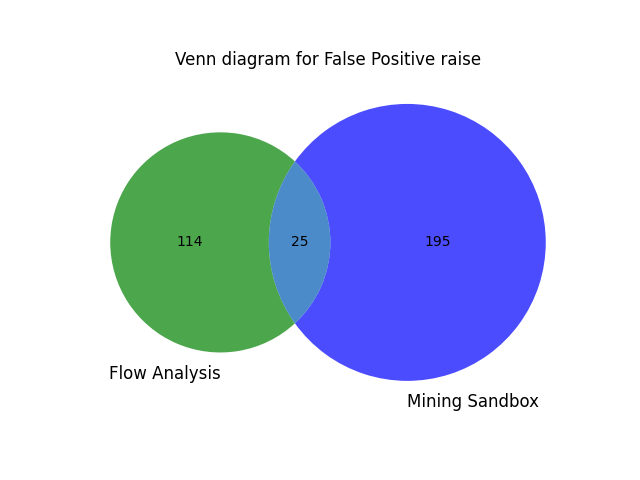
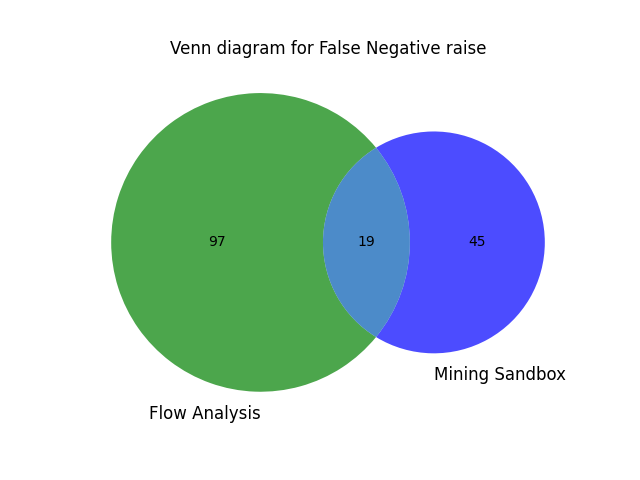
update at Section 4 - 5 - 6

diff --git a/Paper-Network-Flows/results.tex b/Paper-Network-Flows/results.tex
@@ -1,60 +1,43 @@
 \section{Results}\label{sec:results}
 
-This section presents the results of our research. In Section~\ref{sec:ml}, we compare the
-performance of machine learning algorithms in classifying the apps in the \cds dataset
-as either malware or non-malware, using network flows collected during the execution of the apps
-in conjunction with calls to sensitive APIs. Recall that previous research employed the \emph{vanilla}
-\mas, which relied solely on calls to sensitive APIs for app classification. Our previous
-research showed that the performance of the vanilla \mas is compromised when consider
-the \cds, in particular due to samples from specific malware families {\color{red}(such as ABC)~\cite{}}.
-In Section~\ref{sec:new-mas-approach}, we present the gains in classification performance of our extended \mas,
-which combines the analysis of sensitive API calls with our designed network flow ML-based classification method.
-Finally, in Section~\ref{sec:family-assessment}, we present assessments of our extended
-version of the \mas that focus on the malware families responsible for the poor performance of
-the vanilla \mas on the \cds.
-
-\subsection{Comparison of Machine Learning Algorithms}\label{sec:ml}
+This section presents the results of our research. In Section~\ref{sec:ml}, we compare the performance of various machine learning (ML) algorithms in classifying apps from the \fds dataset as either malware or non-malware using our framework, \droidxpflow. In Section~\ref{sec:family-assessment}, we evaluate the performance of our approach, focusing on malware families and assessing the accuracy of detecting each of them. Finally, in Section~\ref{sec:new-mas-approach}, we provide an overview of the results obtained with our approach and compare them to existing state-of-the-art method.
 
 
-As discussed {\color{red}in Section~\ref{}}, we extended the \mas to collect network
-flow information from the apps during their execution via DroidBot campaigns.
-We then replicated our previous experiments using this extended version of the \mas
-that incorporates network flow data collection. Finally, we conducted an experiment to
-compare the performance of machine learning algorithms leveraging this network flow data
-for malware classification. This step of our research considers the following standard ML algorithms:
+
+\subsection{Comparison of ML Algorithms}\label{sec:ml}
+
+As discussed in Section~\ref{sec:dataset}, we developed a framework (\droidxpflow), extending DroidXP benchmark to collect network flow information from apps during their execution via DroidBot campaigns. We then conducted our experiment using \droidxpflow, which incorporates network flow data analysis and ML algorithms.
+
+As a first step, we conducted an experiment to compare the performance of various ML algorithms using our \fds dataset for malware classification. This stage of our research considered the following standard ML algorithms:
 
 \begin{itemize}
- \item Logistic Regression 
+ \item Logistic Regression (LR)
  \item Linear Discriminant Analysis (LDA)
  \item Quadratic Discriminant Analysis (QDA)
- \item Random Forest
+ \item Random Forest (RF)
 \end{itemize}
 
-We also explored the Energy-Based Flow Classifier (EFC), which has been used for
-intrusion and botnet detection using network flows~\cite{DBLP:journals/tnsm/PontesSGBM21}.
-Our experiments were conducted using the \cds, with 70\% of the samples (2853 samples) allocated for training
-and 30\% (1213 samples) for testing. To maximize the performance of these machine learning algorithms,
-we employed multiple parameters and cross-validation. In the end, the Random Forest algorithm outperformed the others,
-when considering standard metrics (recall, precision, \fone, and Area Under the Curve (AUC)).
-Table~\ref{tab:ml-metrics} presents the results. Based on this result,
-we explored the research questions using the outputs of the Random Forest
-classification.
+We also explored the Energy-Based Flow Classifier (EFC), which has been used for intrusion and botnet detection using network flows~\cite{DBLP:journals/tnsm/PontesSGBM21}. For our experiments with \fds, $70\%$ of the samples ($2,847$) were allocated for training, and $30\%$ ($1,220$ samples) for testing. To maximize the performance of each ML algorithm, we explored multiple parameter configurations, using cross-validation, to making efficient use of the available features for each ML algorithm.
+
+Ultimately, the RF algorithm outperformed the others when evaluated with standard metrics (recall, precision, F1-score, and Area Under the Curve (AUC)). Table~\ref{tab:ml-metrics} presents the results. Thus, based on these findings, we answer the research questions using the outputs of the RF algorithm classification.
+
+
 
 \begin{table}[htb]
-    \caption{Accuracy of the ML algorithms to classify the app as malware or non-malware using network flow data from the \cds.}
+    \caption{Accuracy of the ML algorithms to classify the app as malware or non-malware using network flow data from the \fds.}
   \begin{tabular}{lcccc} \toprule
     Algorithm & Precision & Recall & \fone & AUC \\ \midrule 
-    Logistic Regression  & 0.67 & 0.67 & 0.66 & 0.62 \\
-    LDA & 0.66 & 0.75 & 0.70 & 0.70 \\
-    QDA & 0.63 & 0.68 & 0.65 & 0.68 \\
-    EFC & 0.68 & 0.74 & 0.71 & 0.72 \\
-    Random Forest & 0.84 & 0.81 & 0.82 & 0.92 \\ \bottomrule    
+    LR  & 0.74 & 0.98 & 0.84 & 0.74 \\
+    LDA & 0.74 & 0.97 & 0.84 & 0.84 \\
+    QDA & 0.72 & 0.66 & 0.69 & 0.76 \\
+    EFC & 0.75 & 0.97 & 0.85 & 0.66 \\
+    RF & 0.87 & 0.90 & 0.89 & 0.94 \\ \bottomrule    
   \end{tabular}
   \label{tab:ml-metrics}
 \end{table}
 
 \begin{finding}
-  The Random Forest algorithm outperforms the others popular classification algorithms, achieving higher values across the metrics explored (recall, precision, \fone, and Area Under the Curve).
+  The RF algorithm outperforms the others popular classification algorithms, achieving higher values across the metrics explored (recall, precision, \fone, and Area Under the Curve).
 \end{finding}
 
 
@@ -64,54 +47,116 @@ classification.
 %   \caption{The comparison of machine learning algorithms}\label{fig:metrics}
 % \end{figure*}
 
+\subsection{Detection Performance based on Malware Family}\label{sec:family-assessment}
 
-\subsection{Overall Performance and Ablation Study}\label{sec:new-mas-approach}
+In this section, we present the performance of our experiment based on malware family. Since the number of samples in each family varies, the overall detection rate is more influenced by families with larger sample sizes. However, our results become inconsistent if we use the same number of samples for each family. To resolve this issue, we present the results based on the actual number of samples from the $20$ most representative families, which account for $90.9\%$ of all malware samples tested and whose families could be labeled by \vt.
 
-Our extended version of the \mas, which complements the \mas with an ML-based network flow classification of Android apps, classified $3,046$ repackaged versions of apps as malware, from wich 334 are false negatives. It also miss classfied 183 apps as non-malware (false negatives). Table~\ref{} presents the confusion matrix.
-
-\begin{tabular}{l|l|c|c|c}
-\multicolumn{2}{c}{}&\multicolumn{2}{c}{Prediction}&\\
-\cline{3-4}
-\multicolumn{2}{c|}{}&Positive&Negative&\multicolumn{1}{c}{Total}\\
-\cline{2-4}
-\multirow{2}{*}{Actual Values}& Positive & $a$ & $b$ & $a+b$\\
-\cline{2-4}
-& Negative & $c$ & $d$ & $c+d$\\
-\cline{2-4}
-\multicolumn{1}{c}{} & \multicolumn{1}{c}{Total} & \multicolumn{1}{c}{$a+c$} & \multicolumn{    1}{c}{$b+d$} & \multicolumn{1}{c}{$N$}\\
-\end{tabular}
-
-and significantly decreased the number of (FN) from $1,720$ to $183$. However, this execution increased the number of (FP) from $220$ to $334$. The combination of both techniques proved to be more effective than the vanilla \mas. In summary, the results reveal that the combination of both techniques achieves an accuracy rate of $91$\% (third row of Table~\ref{tab:accuracy}).
-
-To understand the benefits of each method, we further analyze the contribution of them for the accuracy. We report the raise of True Positive (TP) and False Positive (FP) for each technique in Figure~\ref{fig:venn}. The figure reveal that different approaches present different contribution to the final detection result.
-
-\begin{finding}
-When combining both techniques, we improve the overall accuracy (\fone) of \mas at malware detection, from $0.54$ to $0.91$ at \cds.
-\end{finding}
+We also explored the detection rate of recent malware samples. Although their families are unknown, we demonstrated that it is possible to classify them as suspicious apps using our framework (Section~\ref{sec:unknowfamily}).
 
 
-{\bf \mas.} Considering the \cds (4,076 apps), the \fhc present
-a total of {$1,395$} repackaged apps flagged as malware ({$34.22$\%} of the total number of repackaged apps), for which the repackaged app version calls at least one additional sensitive API. They explore accuracy metrics (such as Precision, Recall, and F-measure ($F_1$)), taking advantage of \vt to label the \cds and building a ground truth. Table~\ref{tab:accuracy} summarize the result of their study (First row). The study indicate that the \mas achieves an accuracy of 0.54 when considering the \cds. Nonetheless, the \mas fails to correctly classify $1,720$ assets as malware on the \cds (FN column, first row of Table~\ref{tab:accuracy}), and wrongly labeled the repackaged version of $220$ apps as malware (FP column). Therefore, the study reveals a {\bf lower performance} related to the accuracy of the approach, indicating that when considering the \cds, the accuracy of the \mas using DroidBot as test generate tool is just over $50$\%.
+\subsubsection{Detection rate of 20 most representative malware families}\label{sec:familyDetection}
 
-{\bf Flow Analysis.} Surprisingly, also considering the \cds (\apps pairs), we explored Flow Analysis with machine learning algorithm (Random Forest). As described in Section~\ref{sec:learning}, we trained $70$\% of the samples and tested on $30$\% of samples different from the trained ones. Our \cds cover \apps pair with $2,969$ original apps and $2,918$ malicious apps, totaling $5,887$ balanced samples. Accordingly, we trained our model on $4,120$ samples ($70$\% of $5,887$), and applied the trained model to $1,767$ samples ($30$\% of $5,887$). The Flow Analysis labeled a total of $690$ apps as malware, failed to correctly label $124$ assets as malware, and wrongly labeled the repackaged versions of $175$ samples (second row of Table~\ref{tab:accuracy}). Our Flow Analysis had a better performance, when compared to \mas, with an accuracy rate of $82$\%. From these results, we can conclude that Flow Analysis could be a complementary technique to \mas, improving the identification of malicious code in Android apps. In the next section, we present the results of combining both techniques for suspicious app detection.
 
-\begin{finding}
-The experimental results demonstrate that Network Flow analysis, combined with a machine learning algorithm, outperforms the \mas, with \fone of $0.82$. This proves to be an effective strategy to support the \mas for malware identification.
-\end{finding}
+Among the $20$ most representative families, the families with the highest earnings are \gps and \dwg. Among the $69$ samples evaluated from the \dwg family, \droidxpflow flagged $66$ apps ($95.65\%$) as malicious. Despite this, the \dwg family does not have as many representative samples as the \gps family, which accounts for $46.96\%$ of all samples tested in the \fds, with $372$ samples. Of these, \droidxpflow flagged $348$ samples ($93.55$\%) as malicious. Malware belonging to the \gps family automatically connects to networks, communicates with remote servers, downloads and installs other apps or adware without the user’s knowledge\cite{DBLP:journals/jnca/WangCYYPJ19}. Due to their high network interaction, they are more easily detected by our framework, demonstrating its effectiveness in detecting samples with malicious network behaviors.
+
+Additionally, it is worth noting that among the $20$ most representative families examined, our framework correctly identified all samples as malware in 12 families. This result demonstrates that our approach is effective for other malware families investigated as well. Table~\ref{tab:families_rate} shows the detection performance of our strategies for the $20$ most representative families. The table also classify samples from five malware categories: ad fraud, adware, spyware, trojans, and SMS malware. Most of the samples are from the adware and ad fraud categories, which aggressively display ads, generate fraudulent ad clicks, and track user behavior~\cite{DBLP:journals/spe/FallahB22}. The other categories are equally harmful and may cause financial losses through unauthorized messages (SMS malware), collect sensitive user data for malicious purposes (Spyware), or provide remote access and control over infected devices (Trojans).
+
 
 
 \begin{table*}[h]
-  \caption{Accuracy of both strategy on \cds.}
+  \caption{Detection Rate of the $20$ most representative Families from $30\%$ tested randomly selected from \fds.}
+\centering{
+  \begin{tabular}{llrrr} \hline
+    Category & Family & Samples & Detected  & \%  \\
+    \hline
+
+        Ad Fraud & gappusin & 372 & 348 & 93,55  \\
+        ~ & dowgin & 69 & 66 & 95,65  \\
+        ~ & kyvu & 4 & 4 & 100,00  \\
+        Adware & revmob & 67 & 62 & 92,54  \\
+        ~ & airpush & 44 & 42 & 95,45  \\
+        ~ & youmi & 28 & 28 & 100,00  \\
+        ~ & kuguo & 22 & 22 & 100,00  \\
+        ~ & leadbolt & 15 & 15 & 100,00  \\
+        ~ & adwo & 10 & 10 & 100,00  \\
+        ~ & apptrack & 10 & 10 & 100,00  \\
+        ~ & domob & 9 & 9 & 100,00  \\
+        ~ & appsgeyser & 6 & 5 & 83,33  \\
+        ~ & admogo & 6 & 5 & 83,33  \\
+        ~ & pircob & 5 & 5 & 100,00  \\
+        ~ & cimsci & 4 & 4 & 100,00  \\
+        
+        ~ & dnotua & 3 & 3 & 100,00  \\
+        Spyware & igexin & 7 & 7 & 100,00  \\
+        ~ & cnzz & 4 & 4 & 100,00  \\
+        Trojan & torjok & 8 & 7 & 87,50  \\
+        SMSmalware & smsreg & 29 & 27 & 93,10  \\
+
+   
+    \hline
+  \end{tabular}
+  }
+  \label{tab:families_rate}
+\end{table*}
+
+
+\begin{finding}
+
+Our approach proved to be efficient at malware families with high network interaction, like demonstrated at samples from \gps family, the most representative family in \fds. This demonstrates the potential of this solution in detecting samples with malicious network behaviors.
+
+\end{finding}
+
+
+\subsubsection{Detection rate of unknown malware family}\label{sec:unknowfamily}
+
+According to \vt, among the samples from our \fds, at least two security engines identified $80$ samples as malware, but they were unable to specify their families. Since new malware emerges daily, accurately classifying recent malicious apps into their respective families is both challenging and time-consuming~\cite{DBLP:journals/compsec/WangTW21,DBLP:journals/compsec/ContiKP22}, suggesting that these are recent malware.
+
+Although the specific families were unknown at the time of this research, our framework flagged $39$ samples ($48.75\%$) as malicious. Based on these results, we conclude that \droidxpflow can classify recent apps as malware based solely on their malicious network activity.
+
+\begin{finding}
+
+Even for recently malicious apps without family classification, our approach can flag them as malware based solely on their suspicious network activities.
+
+\end{finding}
+
+
+
+\subsection{Flow Analysis approach x Mining Android Sandbox (MAS) approach}\label{sec:new-mas-approach}
+
+
+In this section, we compare the performance of \droidxpflow and \mas classifier, presented in the previous chapter of this thesis. The comparison is performed based on standard metrics (recall, precision, F1-score). To provide a baseline comparison, we present the results of the \mas using the same $30\%$ of samples ($1,220$) from the \fds dataset tested in section~\ref{sec:ml}.
+
+Our results demonstrate that the vanilla \mas for malware classification has lower performance (\fone) compared to the \droidxpflow framework. In summary, the results reveal that the \mas achieves an \fone of $59\%$, while the \droidxpflow achieves an overall accuracy of $89\%$.
+
+To understand the strengths and weaknesses of each method, we further analyzed their contributions to the \fds dataset. We report the increase in True Positives (TP) and False Positives (FP) for each technique in Figure~\ref{fig:venn}. The figure shows that different approaches contribute differently to the final detection results. More details are provided in the following subsection.
+
+
+\subsubsection{\mas result} 
+
+Considering $30\%$ of the \fds (1,220 apps), the \mas flagged a total of $460$ repackaged apps as malware ($37.7\%$ of the total number of repackaged apps investigated), where the repackaged app version calls at least one additional sensitive API. We explored accuracy metrics (such as Precision, Recall, and F-measure (F1)), taking advantage of \vt to label the \fds and build a ground truth. Table~\ref{tab:accuracy} summarizes the results of the study (first row).
+
+The results indicate that the \mas achieves an accuracy of $0.59$ when considering the $1,220$ apps explored. Nonetheless, the \mas fails to correctly classify $488$ assets as malware (FN column, first row of Table~\ref{tab:accuracy}) and wrongly labels the repackaged version of $64$ apps as malware (FP column). Therefore, the study reveals a lower performance in terms of accuracy, indicating that when considering $30\%$ of the \fds, the accuracy of the \mas using DroidBot as the test generation tool is nearly $60\%$.
+
+
+\subsubsection{Flow Analysis result} 
+
+Surprisingly, considering the same samples ($1,220$ apps), we explored our framework. The \droidxpflow labeled a total of $903$ apps as malware but failed to correctly label $86$ assets as malware. However, it wrongly labeled the repackaged versions of $116$ samples as malware (second row of Table~\ref{tab:accuracy}). Our \droidxpflow framework showed better performance compared to the \mas, with an accuracy rate of $89\%$. Based on these results, we can conclude that \droidxpflow outperforms the \mas, proving to be an effective strategy for malware classification. In the next section, we present the strengths and weaknesses of each proposal.
+
+
+\begin{finding}
+The experimental results demonstrate that \droidxpflow framework, outperforms the \mas, with \fone of $0.89$. This proves that the approach is an effective strategy for malware identification.
+\end{finding}
+
+
+\begin{table*}
+  \caption{Accuracy of both strategy on \fds (1220 samples).}
 \centering{
   \begin{tabular}{lrrrrrr} \hline
-    Dataset & TP   & FP  & FN  & Precision & Recall & $F_1$ \\
+    Approach & TP   & FP  & FN  & Precision & Recall & $F_1$ \\
     \hline
+    \mas   & 396  & 64 & 488 & 0.86       & 0.45   & 0.59  \\
+    Flow Analysis with ML support (RF)    & 787   & 116   & 86   & 0.87      & 0.90   & 0.89  \\
     
-    %\mas + Traces  & \sds (102)   & 67   & 18  & 2   & 0.78      & 0.97   & 0.87  \\
-    \fhc : \mas (4,076 pairs)    & 1,175  & 220 & 1,720 & 0.84       & 0.40   & 0.54  \\
-    Flow Analysis (1767 samples)~\footnote{Using Random Forest as ML algorithm}    & 690   & 175   & 124   & 0.79      & 0.84   & 0.82  \\
-    %\mas + Traces  & \cds (1203)   & 214  & 326 & 245 & 0.39      & 0.46   & 0.42  \\ 
-    \mas and Flow Analysis (4,076 pairs)    & 2,712   & 334   & 183   & 0.89      & 0.93   & 0.91  \\
     \hline
   \end{tabular}
   }
@@ -119,68 +164,35 @@ The experimental results demonstrate that Network Flow analysis, combined with a
 \end{table*}
 
 
-\subsection{Combining both Strategy}\label{sec:strategy}
+\subsection{Weakness and Strength of \net and \mas}\label{sec:strategy}
 
-Finally, to confirm our hypothesis from Section~\ref{sec:comparison}, we investigated the benefits of combining both approaches (\mas and Flow Analysis). The combined execution of both techniques correctly classified $2,712$ repackaged apps as malware (TP) and significantly decreased the number of (FN) from $1,720$ to $183$. However, this execution increased the number of (FP) from $220$ to $334$. The combination of both techniques proved to be more effective than the vanilla \mas. In summary, the results reveal that the combination of both techniques achieves an accuracy rate of $91$\% (third row of Table~\ref{tab:accuracy}).
+To understand the benefits of each method, we further analyze the contribution of both methods in detecting malicious samples. We report the increase in True Positives (TP), False Positives (FP), and False Negatives (FN) for each technique in Figure~\ref{fig:venn}. The figure reveals that different approaches contribute differently to the final detection result.
 
-To understand the benefits of each method, we further analyze the contribution of them for the accuracy. We report the raise of True Positive (TP) and False Positive (FP) for each technique in Figure~\ref{fig:venn}. The figure reveal that different approaches present different contribution to the final detection result.
+In the first Venn diagram of Figure~\ref{fig:venn}, we present the increase in True Positives (TP) for our samples. As we can see, $432$ samples were classified solely by \droidxpflow, most of them from the \gps family ($292$ samples). Both approaches detected $358$ samples, most of them from \gps, \fm{airpush}, and \dwg. The \mas correctly detected $30$ samples on its own, most of them without family classification ($14$ samples).
 
-\begin{finding}
-When combining both techniques, we improve the overall accuracy (\fone) of \mas at malware detection, from $0.54$ to $0.91$ at \cds.
-\end{finding}
+The second Venn diagram presents the increase in False Positives (FP). The diagram shows that the \mas has a lower increase in FP compared to \droidxpflow, which can explain its precision in Table~\ref{tab:accuracy}. \droidxpflow has almost twice as many samples with FP as the \mas. For $97$ benign samples, the approach mistakenly classified a normal network flow as malicious. However, its precision remains high due to the increase in True Positives (TP).
+
+Finally, in the last Venn diagram, we can see the samples that both approaches failed to classify as malicious. The diagram shows that the \mas has a high increase in False Negatives (FN) ($432$ samples), most of them from the \gps family ($292$ samples), which are more easily detected by our framework due to their malicious network behaviors, as presented in Section~\ref{sec:familyDetection}. Among the 56 samples that were not detected by either approach, most of them ($28$) do not have a family classification. According to \vt, among the 60 antivirus engines available, at most 4 are capable of detecting them, characterizing these samples as complex and difficult to classify as malware.
+
 
 \begin{figure}[t!]
   \centering
   \begin{tabular}{@{}c@{}}
-    \includegraphics[width=0.54\textwidth]{image/vennTP.png} \\[\abovecaptionskip]
+    \includegraphics[width=0.5\textwidth]{image/vennTP.png} \\[\abovecaptionskip]
     \small (a) True Positive raise
   \end{tabular}
 
   \begin{tabular}{@{}c@{}}
-    \includegraphics[width=0.54\textwidth]{image/vennFP.png} \\[\abovecaptionskip]
+    \includegraphics[width=0.5\textwidth]{image/vennFP.png} \\[\abovecaptionskip]
     \small (b) False Positive raise
+  \end{tabular}
+   \begin{tabular}{@{}c@{}}
+    \includegraphics[width=0.5\textwidth]{image/vennFN.png} \\[\abovecaptionskip]
+    \small (c) False Negative raise
   \end{tabular}
 
   \caption{Contribution to the final detection result}\label{fig:venn}
 \end{figure}
 
 
-\subsection{Detection Performance based on Malware Family}\label{sec:family}
 
-In this section, we present the performance of our experiment based on each malware family. Since the number of samples in one family differs from the number in another, the overall detection rate is influenced more by the families with larger sample sizes. However, our results become inconsistent if we use the same number of samples for each family. To resolve the paradox, we present the results of the actual number of samples from the $10$ most representative families, which account for $87.83\%$ of all samples (Section~\ref{sec:familyDetection}). We also explored the detection rate of suspected recent malware samples. Although their families are unknown, we demonstrated that it is possible to improve the detection rate of suspicious apps by combining both strategies (Section~\ref{sec:unknowfamily}).
-
-
-\subsubsection{Detection rate of 10 most representative malware families}\label{sec:familyDetection}
-
-Among the $10$ most representative families, combining both strategies, the families with the highest earnings are \tjk and \gps. Regarding \tjk family malware, among the 34 samples evaluated, the \fhc flagged only 2 apps ($5.88$\%) as malicious. However, when combined with Flow Analysis, both approaches correctly labeled $32$ assets ($94.11$\%) as malicious, marking an $88.23$\% increase. Despite this, the \tjk family does not have as many representative samples as the \gps family, which accounts for $32.80$\% of all samples in the \cds, with $1,337$ samples. Among them, the \mas flagged $334$ samples ($12.93$\%) as malicious, while the combination of them indicated that $1,275$ ($95.36$\%) had suspicious activity, representing an $82.42$\% increase. Malware belonging to the \gps family automatically connects to networks, communicates with remote servers, and downloads and installs other apps or adware without the user’s knowledge\cite{DBLP:journals/jnca/WangCYYPJ19}. Due to their high network interaction, they are more easily detected by \net, proving it to be more efficient in detecting samples with malicious network behaviors.
-
-Still, we should also note that $2$ families can correctly identified all samples as malware just with the \mas, \fm{airpush} and \fm{leadbolt}, with $120$ and $43$ samples respectively. At this case, the \net do not contribute to improving the ability to detect malicious activity, and just confirms the  maliciousness of the samples. The result reveals that the \mas remain effective for certain malware families. Figure~\ref{fig:bar} shows the detection performance of our strategies for the $10$ most representative families. In the figure, we can see that samples for the \gps family, had the the greatest benefit of the malware detection rate, with the support of flow analysis.
-
-
-
-\begin{figure*}[h]
-  \centering
-  
-    \includegraphics[width=\linewidth]{image/barGraph.png} \\[\abovecaptionskip]
-    
-  \caption{Detection Rate for Family}\label{fig:bar}
-\end{figure*}
-
-\begin{finding}
-
-The combination of the \mas with \net, improve the malware detection rate for the \gps family (from $12.93$\% to $95.36$\%), the most representative family in \cds. This demonstrates the potential of this solution in detecting samples with malicious network behaviors.
-
-\end{finding}
-
-
-\subsubsection{Detection rate of unknown malware family}\label{sec:unknowfamily}
-
-According to \vt, among the samples from our \cds, at least two \ses identified $253$ samples as malware. However, they were unable to specify their families. Since new malware emerges daily, accurately classifying recent malicious apps into their respective families is both challenging and time-consuming~\cite{DBLP:journals/compsec/WangTW21,DBLP:journals/compsec/ContiKP22}, which suggests that these are recent malware.
-
-Although the specific families are unknown, the \mas detected suspicious activity in $114$ samples ($45.05$\%) from this set. On the other hand, when focusing solely on the results from the \net, for these unknown malware families, $124$ samples ($49.01$\%) were flagged as malicious. When we combine both approaches, the total number of apps flagged for suspicious activity increases to $170$ ($67.19$\%). Based on these results, we conclude that \net can effectively support the \mas, even for recently identified malicious apps, without malware family classification at the time of this research.
-
-\begin{finding}
-
-Even for recently malicious apps with unknown malware families, \net can support the \mas to improve the detection rate of apps with suspicious activities.
-
-\end{finding}

diff --git a/Paper-Network-Flows/discussion.tex b/Paper-Network-Flows/discussion.tex
@@ -1,33 +1,34 @@
 \section{Discussion}\label{sec:discussion}
 
-The previous evaluation demonstrates the efficacy of \net in supporting the \mas for detecting malware through their network traffic. In this section, we address our research questions from Section~\ref{sec:Methodology}, present the implications of the results, and discuss certain limitations that cannot be ignored. These limitations also highlight areas for future research.
+The previous section demonstrated the efficacy of the \droidxpflow framework for detecting malware in network traffic. In this section, we address the research questions posed in Section~\ref{sec:Methodology}, presenting the implications of our results, and discussing certain limitations that cannot be ignored. These limitations also highlight areas for future research.
 
-\subsection{Answers to the Research Questions}\label{sec:questions}
+\subsection{Research Questions and Analysis}\label{sec:questions}
 
-The assessment of our method in the previous section allows us to answer the research questions proposed in the Methodology Section, as follows:
+The assessment of our method in the previous section allows us to answer the research questions proposed at Section~\ref{sec:Methodology}, as follows:\newline
+
+
 
 \begin{enumerate}
-    \item \textbf{Performance of the \mas with \net support (RQ1).} For this first question, our study indicates that the accuracy of the \mas improves when combined with machine learning technology by training on network traffic data. While in the \fhc, the \mas had lower precision and recall, resulting in an accuracy of $0.54$, when we combined it with \net, the accuracy significantly improved, reaching a \fone of $0.91$, compared to the $0.54$ reported in the \fhc.
+    \item \textbf{Accuracy Gain in Android Malware Classification Using Network Flow Data and ML (RQ1).} Our study indicates that the accuracy of \droidxpflow is competitive when compared to the state-of-the-art in malware classification. In our investigation, the framework achieved an \fone of $0.89$ when using the RF algorithm at ML model.
     
-    \item \textbf{Machine Learning Algorithms Analysis (RQ2).} Our experimental findings provide evidence that, among all the machine learning algorithms investigated in our work, the Random Forest algorithm outperforms the others, achieving higher values across the explored metrics for our dataset (\cds).
+    \item \textbf{Machine Learning Algorithms Analysis (RQ2).} Our experimental findings provide evidence that, among all the ML algorithms investigated, the Random Forest algorithm outperformed the other four algorithms tested. It achieved the highest performance according to the relevant metrics for our dataset (\fds).
     
-    \item \textbf{Malware Family Detection Accuracy (RQ3).} The results show that some families significantly benefit from the combination of both approaches. For example, the \tjk and \gps families show improvements in accuracy of $88.23\%$ and $84.42\%$, respectively. The main characteristics of these malware families include downloading adware without the user's knowledge, automatically connecting to and interacting with remote servers, and initiating paid services~\cite{DBLP:journals/jnca/WangCYYPJ19}. Therefore, the combination of both approaches achieves high accuracy, particularly for malware families that interact with networks frequently.
+    \item \textbf{Malware Family Detection Accuracy (RQ3).} The results show that certain malware families significantly benefit from the \droidxpflow framework. For example, samples from the \tjk and \gps families achieved correct classification rates above $93\%$. The main characteristics of these malware families include downloading adware without the user’s knowledge, automatically connecting to and interacting with remote servers, and initiating paid services~\cite{DBLP:journals/jnca/WangCYYPJ19}. Therefore, we can confirm that our framework achieves high accuracy, particularly for malware families that frequently engage in malicious network interactions.
 \end{enumerate}
 
 \subsection{Implications}\label{sec:implications}
 
-In this section, we highlight some implications based on the results presented in Section~\ref{sec:results}.
+In this section, we highlight some implications based on the results presented in Section~\ref{sec:results}.\newline
 
-Complementing the \fhc, our findings lead to improved accuracy in malware classification, indicating that \net can complement the \mas. Previous works~\cite{DBLP:conf/wcre/BaoLL18,DBLP:conf/iceccs/LeB0GL18,DBLP:journals/jss/CostaMMSSBNR22} incorrectly identified \mas as a solution with a reasonable \fone, based on results from a restricted dataset composed of fewer than 20 malware families. In contrast, the \fhc revealed negative results for the \mas when using a more representative dataset (\cds), which included a greater variety of malware families responsible for higher false negative rates. This, in turn, compromises the accuracy of the \mas.
+Previous studies~\cite{DBLP:conf/wcre/BaoLL18,DBLP:conf/iceccs/LeB0GL18,DBLP:journals/jss/CostaMMSSBNR22} incorrectly identified the \mas as a solution with a reasonable \fone, based on results from a limited dataset composed of fewer than 20 malware families. In contrast, our analysis revealed negative results for the \mas when using a more representative dataset (LargeDS), which included a greater variety of malware families. These families were responsible for higher false negative rates, ultimately compromising the accuracy of the \mas.
 
+Our work addresses this problem, presenting a approach base on network flow analysis with ML support. Our framework proved to be efficient in detect different malicious behaviors and reduce the number of false negatives. More importantly, the framework can identify more malware families that use polymorphism or obfuscation to evade detection~\cite{DBLP:conf/acsac/MoserKK07}, but exhibit high and suspicious interactions with the network. Malware from the \gps and \dwg families are examples of malicious apps that use these strategies.
 
-Our work addresses the problem identified by the \fhc, showing that by combining \mas with \net, we can detect different malicious behaviors and reduce the number of false negatives. More importantly, by combining both approaches, we can identify more malware families that use polymorphism or obfuscation to evade detection~\cite{DBLP:conf/acsac/MoserKK07}, but exhibit high and suspicious interactions with the network. Malware from the \gps and \tjk families are examples of malicious apps that use these techniques, yet their malicious behavior can be detected through \net.
-
-Still, our study also reveals that for some malware families, \net fails to detect their malicious behavior, while the \mas successfully identifies them as malware. This proves that \net is not a complete solution, and highlights the importance of combining both approaches. Among all families in the \cds 
- (116 families), 30 malware families have samples that \net do not flagged as malicious, but which were identify as malicious by the \mas. Examples include the \fm{Dowgin} family (11 samples out of 187) and the \fm{Revmob} family (10 samples out of 207), where only the \mas was able to identify them as malware. Also, \fhc show that \mas is able to correctly label as malware, $100\%$ of samples from \fm{Airpush} family. In this specific case, the \net just confirms the maliciousness of the samples. This demonstrates that the current state-of-the-art sandbox techniques remain effective for certain malware families.
+Still, our study also reveals that for some malware families, \droidxpflow fails to detect their malicious behavior, while the \mas successfully classified them as malware. This proves that \net is not a complete solution, and highlights the importance of combining both approaches. Among all families explored in $30\%$ of \fds 
+ (71 families), 11 families have samples that \droidxpflow do not flagged as malicious, however were classified as malicious by the \mas. Examples include the \fm{Dowgin} family (3 samples out of 69) and the \fm{Revmob} family (4 samples out of 67), where only the \mas was able to identify them as malware. Also, the previews chapter show that \mas is able to correctly label as malware, $100\%$ of samples from \fm{Airpush} family. In this specific case, \droidxpflow also classify as malware all samples and just confirms the maliciousness of them. This demonstrates that the current state-of-the-art Mining Sandbox techniques remain effective for certain malware families.
 
 \subsection{Limitations}\label{sec:limitations}
 
-The previous assessment of results, proved that \mas and \net, when complementing each other, is an effective approach for malware detection. However, the proposed method has some limitations that can not be ignored, and are mentioned below:\newline
-\textbf{Training set.} The \cds contains $2,895$ malware samples across $116$ families. When considering the number of apps available on official markets today, we realize that our sample is far from representative. Currently, there are millions of apps on Google Play~\cite{bankmycell}, with a significant number of malicious apps hidden among them. We believe that there are still malware families that cannot be detected by the \mas, even when combined with \net. To address this issue, we propose expanding the training set and testing additional detection models. The malware detection capability improves as the size of the training samples increases, enabling the solution to detect more types of malware. Finally, as in the \fhc, our work also focuses solely on Android repackaged malware, so we cannot generalize our findings to malware targeting other platforms.\newline
-\textbf{Malicious behaviors triggered.} As explained in Section~\ref{sec:mas}, during the execution phase of the \fhc, DroidXP restarts the explored apps to presumably activate the malicious behavior of the malware. However, we are uncertain whether all malicious activities were fully triggered without actual user inputs. Bao et al.~\cite{DBLP:conf/wcre/BaoLL18} provides evidence that DroidBot outperforms other test generation tools by uncovering a larger number of potential malicious behaviors. Nevertheless, we are unsure about its ability to accurately simulate user input, which would make the collected traffic resemble real-world scenarios. Furthermore, since we used a simulated environment, it is possible that some malware could detect this situation, and avoid triggering their malicious behaviors, thus affecting the network traffic collection process. In the future, we plan to explore more recent test generation tools that could cover a wider range of app behaviors. Additionally, we intend to incorporate real devices into the traffic collection process to better detect malware that can bypass environment emulators.
+The previous assessment of results, proved that \droidxpflow is an effective approach for malware detection, however it has some limitations that can not be ignored, and are mentioned below:\newline
+\textbf{Training set.} The \fds contains $2,886$ malware samples across $116$ families. When considering the number of apps available on official markets today, we realize that our sample is far from representative. Currently, there are millions of apps on Google Play~\cite{bankmycell}, with a significant number of malicious apps hidden among them. We believe that there are still malware families that cannot be detected by our framework. To address this issue, we propose expanding the training set and testing additional detection models. The malware detection capability improves as the size of the training samples increases, enabling the solution to detect more types of malware. Finally, our work also focuses solely on Android repackaged malware, so we cannot generalize our findings to malware targeting other platforms.\newline
+\textbf{Malicious behaviors triggered.} As explained in Section~\ref{sec:data}, during the execution phase of DroidXP it restarts the explored apps to presumably activate the malicious behavior of the malware. However, we are uncertain whether all malicious activities were fully triggered without actual user inputs. Bao et al.~\cite{DBLP:conf/wcre/BaoLL18} provides evidence that DroidBot outperforms other test generation tools by uncovering a larger number of potential malicious behaviors. Nevertheless, we are unsure about its ability to accurately simulate user input, which would make the collected traffic resemble real-world scenarios. Furthermore, since we used a simulated environment, it is possible that some malware could detect this situation, and avoid triggering their malicious behaviors, thus affecting the network traffic collection process. In the future, we plan to explore more recent test generation tools that could cover a wider range of app behaviors. Additionally, we intend to incorporate real devices into the traffic collection process to better detect malware that can bypass environment emulators.

diff --git a/Paper-Network-Flows/conclusion.tex b/Paper-Network-Flows/conclusion.tex
@@ -1,3 +1,5 @@
 \section{Conclusions}\label{sec:conclusions}
 
-In this paper, we propose a method for detecting Android malware by combining the \mas with \net. We use the same dataset (\cds) as the \fhc to investigate whether our method can overcome the limitations of the \mas, point by the \fhc, particularly in families that heavily interact with networks. Our evaluation demonstrates that by combining the \mas with \net, we achieve good performance in detecting mobile malware, with an \fone of $0.91$. Although \net leverage the MAS approach's results, we show that it is not a complete solution. Our evaluation reveals that there are samples in the \cds which \net fault in flag as malicious, but the \mas do not, indicating that both approaches complement each other. Our paper also highlights the limitations posed by the malicious samples, discussing the importance of the number of malware samples used for training, as this can affect the accuracy of machine learning algorithms and, consequently, the support of Network Traffic Analysis for the \mas. As future work, we plan to collect, train, and analyze more malware samples to improve the malware detection solution by developing more sophisticated models, that could provide better support for the \mas.
+
+
+In this paper, we propose a framework (\droidxpflow) for detecting Android malware using Network Traffic Analysis with ML support. As a first step, we created a dataset of network traffic (\fds) from the execution of $4,067$ repackaged apps, extracted from the dataset presented in the previous chapter. We then used our framework to investigate whether our method could overcome the limitations of the \mas, as discussed in the previous chapter, particularly for malware families that heavily interact with networks. Our evaluation demonstrates that \droidxpflow achieves a good performance in detecting Android malware, with an \fone of $0.89$. Although \droidxpflow builds upon the results of the state-of-the-art Mining Sandbox, we show that it is not a complete solution. Our evaluation reveals that there are samples in \fds that our framework fails to flag as malicious, whereas the \mas succeeds. We also highlight the limitations posed by our malicious samples quantity and discuss the importance of the number of samples used for training, as this can affect the accuracy of ML algorithms and, consequently, the effectiveness of our approach. As future work, we plan to collect, train, and analyze more malware samples to improve our malware detection solution by developing more sophisticated models. Additionally, we intend to explore more recent test generation tools that can better simulate user input, thereby making the collected traffic more closely resemble real-world scenarios.

diff --git a/Paper-Network-Flows/main.tex b/Paper-Network-Flows/main.tex
@@ -94,6 +94,8 @@
 \newcommand{\fm}[1]{\emph{#1}\xspace}
 
 \newcommand{\gps}{\fm{gappusin}}  % the gappusin family.
+\newcommand{\rmb}{\fm{revmob}}
+\newcommand{\dwg}{\fm{dowgin}}
 
 \newcommand{\tjk}{\fm{torjok}}
 
